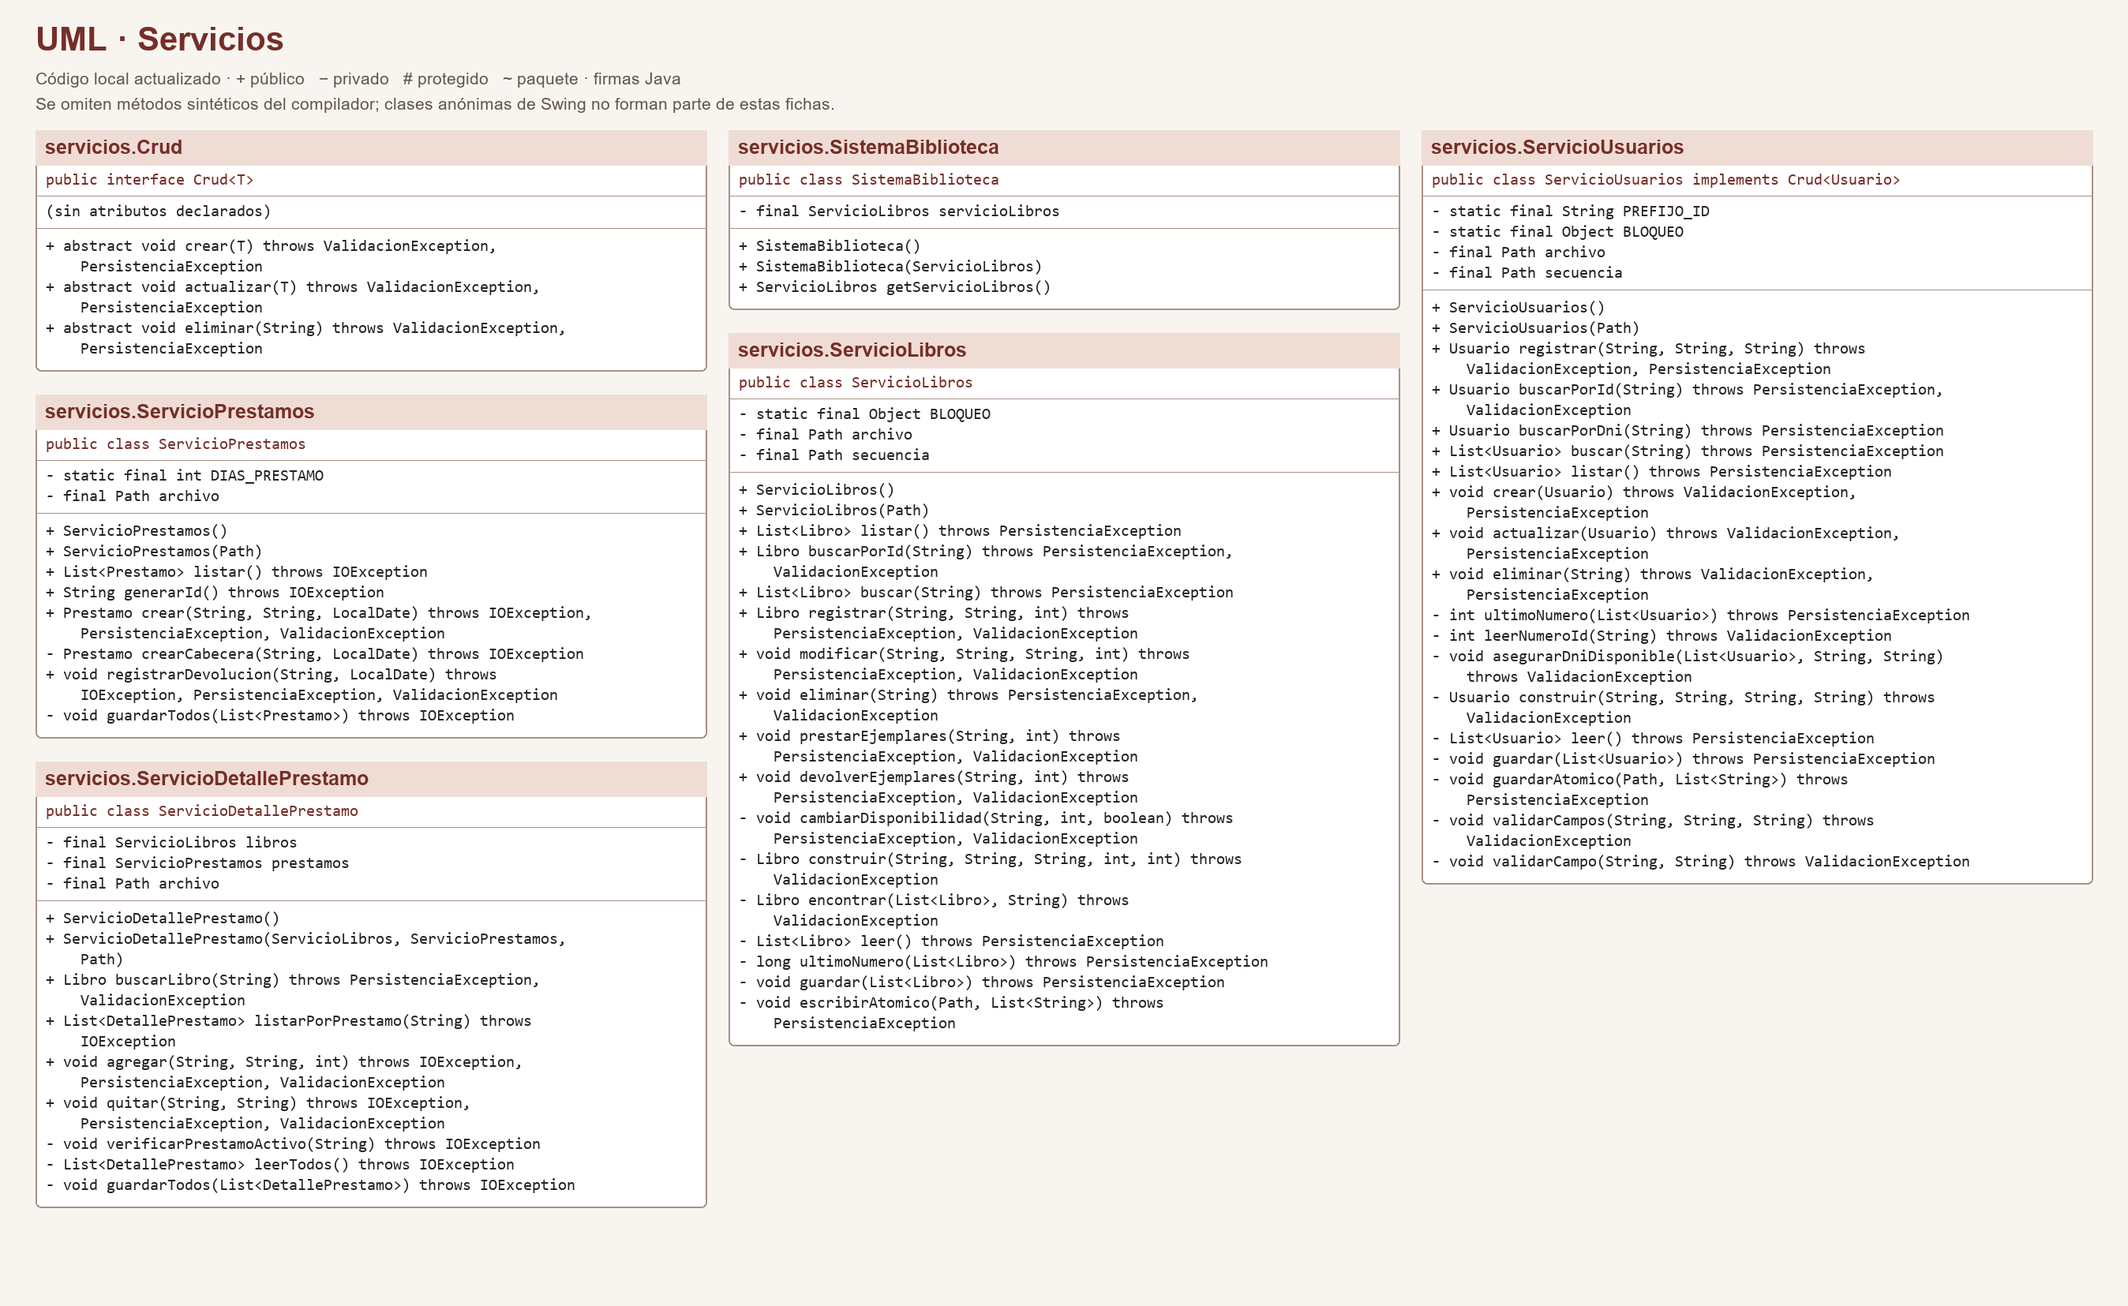
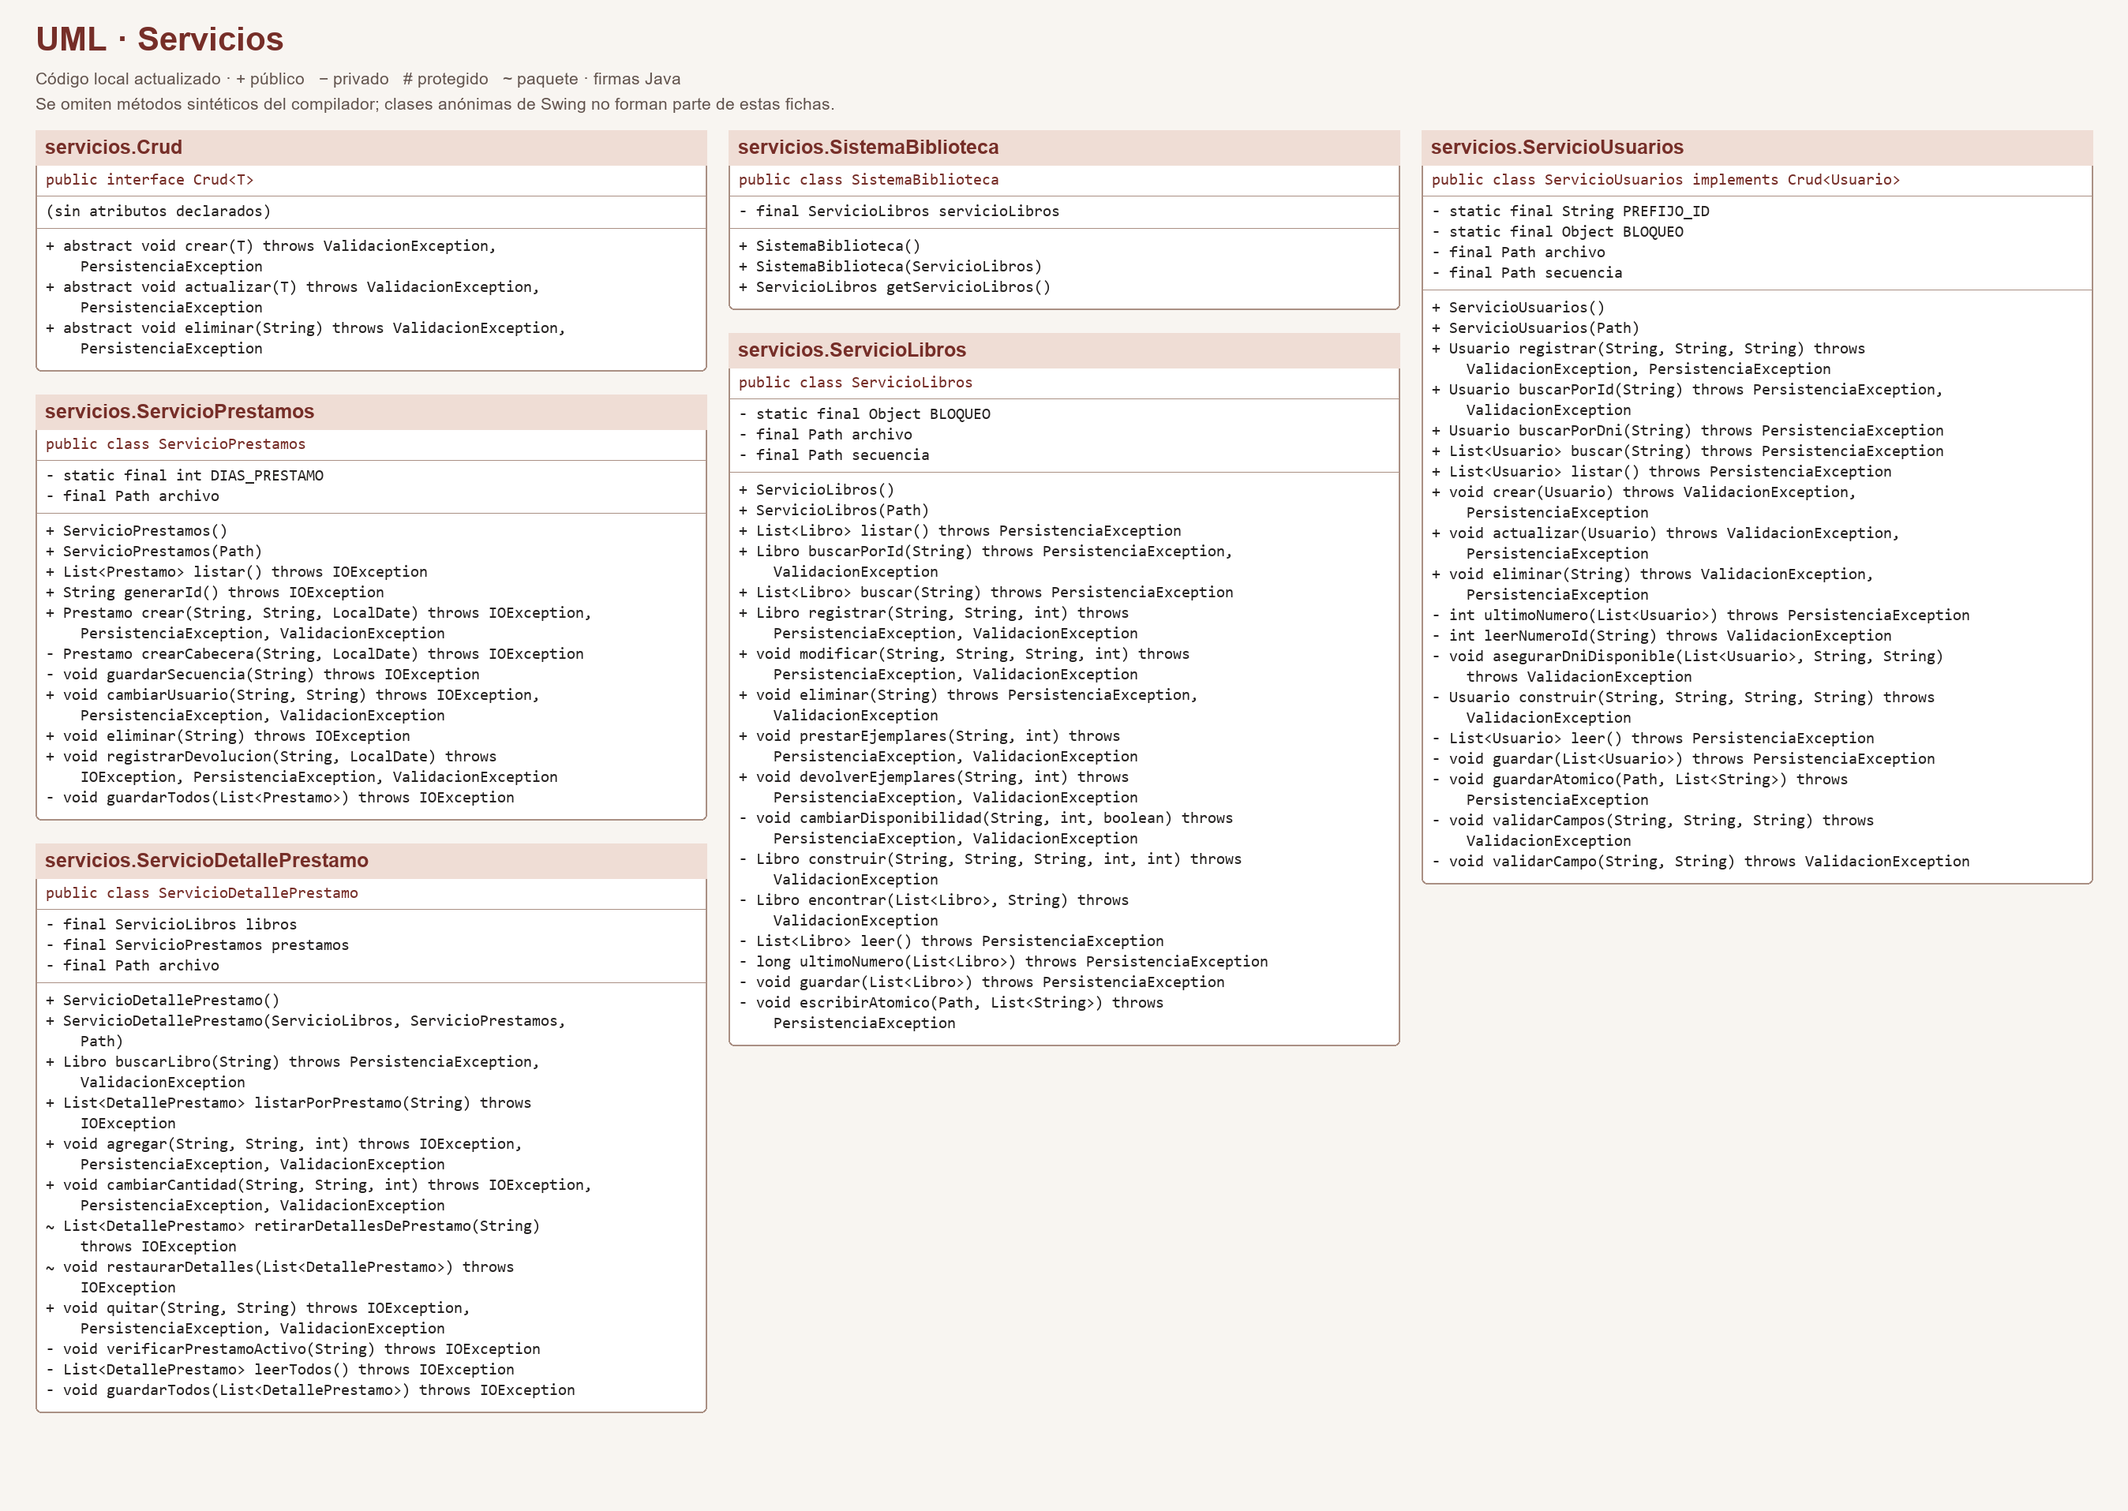
Permitir editar y eliminar préstamos y actualizar cantidades

Changed region(s): [[0.0, 0.0, 0.997, 0.9245]]

diff --git a/src/servicios/ServicioPrestamos.java b/src/servicios/ServicioPrestamos.java
@@ -55,6 +55,15 @@ public class ServicioPrestamos {
 
     public String generarId() throws IOException {
         int mayor = 0;
+        Path secuencia = archivo.toAbsolutePath().resolveSibling("prestamos-secuencia.txt");
+        if (Files.exists(secuencia)) {
+            try {
+                mayor = Integer.parseInt(Files.readString(secuencia, StandardCharsets.UTF_8).trim());
+                if (mayor < 0) throw new NumberFormatException();
+            } catch (NumberFormatException error) {
+                throw new IOException("La secuencia de préstamos no es válida.", error);
+            }
+        }
         for (Prestamo prestamo : listar()) {
             String id = prestamo.getId();
             try {
@@ -108,11 +117,69 @@ public class ServicioPrestamos {
             throw new IllegalArgumentException("El ID de usuario no puede contener | ni saltos de línea.");
         if (fechaPrestamo == null) throw new IllegalArgumentException("La fecha del préstamo es obligatoria.");
         LocalDate fechaVencimiento = fechaPrestamo.plusDays(DIAS_PRESTAMO);
-        Prestamo prestamo = new Prestamo(generarId(), idUsuario, fechaPrestamo, fechaVencimiento);
+        String id = generarId();
+        Prestamo prestamo = new Prestamo(id, idUsuario, fechaPrestamo, fechaVencimiento);
+        guardarSecuencia(id);
         List<Prestamo> prestamos = listar();
         prestamos.add(prestamo);
         guardarTodos(prestamos);
         return prestamo;
+    }
+
+    private void guardarSecuencia(String id) throws IOException {
+        Path destino = archivo.toAbsolutePath().resolveSibling("prestamos-secuencia.txt");
+        Files.createDirectories(destino.getParent());
+        Path temporal = Files.createTempFile(destino.getParent(), "secuencia-prestamos-", ".tmp");
+        try {
+            Files.writeString(temporal, id.substring(1), StandardCharsets.UTF_8);
+            Files.move(temporal, destino, StandardCopyOption.REPLACE_EXISTING);
+        } finally {
+            Files.deleteIfExists(temporal);
+        }
+    }
+
+    public void cambiarUsuario(String id, String nuevoIdUsuario)
+            throws IOException, PersistenciaException, ValidacionException {
+        List<Prestamo> prestamos = listar();
+        for (int i = 0; i < prestamos.size(); i++) {
+            Prestamo anterior = prestamos.get(i);
+            if (!anterior.getId().equals(id)) continue;
+            if (!anterior.estaActivo()) throw new IllegalStateException("Solo se puede editar un préstamo activo.");
+            Path carpeta = archivo.toAbsolutePath().getParent();
+            Usuario usuario = new ServicioUsuarios(carpeta.resolve("usuarios.txt")).buscarPorId(nuevoIdUsuario);
+            prestamos.set(i, new Prestamo(anterior.getId(), usuario.getId(),
+                    anterior.getFechaPrestamo(), anterior.getFechaVencimiento()));
+            guardarTodos(prestamos);
+            return;
+        }
+        throw new IllegalArgumentException("No se encontró el préstamo " + id + ".");
+    }
+
+    public void eliminar(String id) throws IOException {
+        List<Prestamo> prestamos = listar();
+        Prestamo encontrado = null;
+        for (Prestamo prestamo : prestamos) {
+            if (prestamo.getId().equals(id)) { encontrado = prestamo; break; }
+        }
+        if (encontrado == null) throw new IllegalArgumentException("No se encontró el préstamo " + id + ".");
+        if (encontrado.estaActivo()) throw new IllegalStateException("Primero registra la devolución del préstamo.");
+        // Reservar el siguiente número evita reutilizar IDs de datos anteriores a la secuencia.
+        guardarSecuencia(generarId());
+        Path carpeta = archivo.toAbsolutePath().getParent();
+        ServicioDetallePrestamo detalles = new ServicioDetallePrestamo(
+                new ServicioLibros(carpeta.resolve("libros.txt")), this, carpeta.resolve("detalles_prestamo.txt"));
+        List<DetallePrestamo> anteriores = detalles.retirarDetallesDePrestamo(id);
+        prestamos.remove(encontrado);
+        try {
+            guardarTodos(prestamos);
+        } catch (IOException error) {
+            try { detalles.restaurarDetalles(anteriores); }
+            catch (IOException falloReversion) {
+                error.addSuppressed(falloReversion);
+                throw new IOException("No se eliminó el préstamo ni se pudo restaurar su detalle. Revisa los archivos.", error);
+            }
+            throw error;
+        }
     }
 
     public void registrarDevolucion(String id, LocalDate fecha)

diff --git a/src/vista/PrestamoView.java b/src/vista/PrestamoView.java
@@ -138,12 +138,24 @@ public class PrestamoView extends JFrame {
         panelListado.add(new JScrollPane(tabla), BorderLayout.CENTER);
         JButton devolver = new JButton("Registrar devolución");
         devolver.addActionListener(e -> registrarDevolucion());
-        JPanel panelAcciones = new JPanel();
+        JButton editar = new JButton("Editar usuario");
+        editar.addActionListener(e -> editarUsuario());
+        JButton eliminar = new JButton("Eliminar préstamo");
+        eliminar.addActionListener(e -> eliminarPrestamo());
+        JPanel panelAcciones = new JPanel(new GridLayout(2, 1));
         panelAcciones.setOpaque(false);
-        panelAcciones.add(devolver);
+        JPanel accionesPrestamo = new JPanel();
+        accionesPrestamo.setOpaque(false);
+        accionesPrestamo.add(editar);
+        accionesPrestamo.add(eliminar);
+        accionesPrestamo.add(devolver);
         JButton volver = new JButton("Volver al menú principal");
         volver.addActionListener(e -> Navegacion.volverAlMenu(this));
-        panelAcciones.add(volver);
+        JPanel navegacion = new JPanel();
+        navegacion.setOpaque(false);
+        navegacion.add(volver);
+        panelAcciones.add(accionesPrestamo);
+        panelAcciones.add(navegacion);
         panelListado.add(panelAcciones, BorderLayout.SOUTH);
         contenido.add(panelListado, BorderLayout.CENTER);
         cargarTabla();
@@ -219,6 +231,46 @@ public class PrestamoView extends JFrame {
             return "Vencido";
         }
         return "Activo";
+    }
+
+    private void editarUsuario() {
+        int fila = tabla.getSelectedRow();
+        if (fila < 0) {
+            JOptionPane.showMessageDialog(this, "Selecciona un préstamo de la tabla.");
+            return;
+        }
+        int indice = tabla.convertRowIndexToModel(fila);
+        String id = modeloTabla.getValueAt(indice, 0).toString();
+        String usuarioActual = modeloTabla.getValueAt(indice, 1).toString();
+        String nuevo = JOptionPane.showInputDialog(this, "Nuevo ID del usuario:", usuarioActual);
+        if (nuevo == null) return;
+        try {
+            servicio.cambiarUsuario(id, nuevo.trim());
+            cargarTabla();
+            JOptionPane.showMessageDialog(this, "Usuario del préstamo actualizado.");
+        } catch (IllegalArgumentException | IllegalStateException | IOException | PersistenciaException | ValidacionException error) {
+            JOptionPane.showMessageDialog(this, error.getMessage(), "Error", JOptionPane.ERROR_MESSAGE);
+        }
+    }
+
+    private void eliminarPrestamo() {
+        int fila = tabla.getSelectedRow();
+        if (fila < 0) {
+            JOptionPane.showMessageDialog(this, "Selecciona un préstamo de la tabla.");
+            return;
+        }
+        String id = modeloTabla.getValueAt(tabla.convertRowIndexToModel(fila), 0).toString();
+        int respuesta = JOptionPane.showConfirmDialog(this,
+                "¿Eliminar el préstamo " + id + " y sus detalles? Solo se pueden eliminar préstamos devueltos.",
+                "Eliminar préstamo", JOptionPane.YES_NO_OPTION);
+        if (respuesta != JOptionPane.YES_OPTION) return;
+        try {
+            servicio.eliminar(id);
+            cargarTabla();
+            JOptionPane.showMessageDialog(this, "Préstamo y detalles eliminados.");
+        } catch (IllegalArgumentException | IllegalStateException | IOException error) {
+            JOptionPane.showMessageDialog(this, error.getMessage(), "Error", JOptionPane.ERROR_MESSAGE);
+        }
     }
 
     private void registrarDevolucion() {

diff --git a/src/servicios/ServicioDetallePrestamo.java b/src/servicios/ServicioDetallePrestamo.java
@@ -114,6 +114,50 @@ public class ServicioDetallePrestamo {
         }
     }
 
+    public void cambiarCantidad(String idPrestamo, String idLibro, int cantidad)
+            throws IOException, PersistenciaException, ValidacionException {
+        DetallePrestamo nuevo = new DetallePrestamo(idPrestamo, idLibro, cantidad);
+        verificarPrestamoActivo(idPrestamo);
+        List<DetallePrestamo> detalles = leerTodos();
+        for (int i = 0; i < detalles.size(); i++) {
+            DetallePrestamo anterior = detalles.get(i);
+            if (!anterior.getIdPrestamo().equals(nuevo.getIdPrestamo())
+                    || !anterior.getIdLibro().equals(nuevo.getIdLibro())) continue;
+            int diferencia = cantidad - anterior.getCantidad();
+            if (diferencia == 0) return;
+            if (diferencia > 0) libros.prestarEjemplares(idLibro, diferencia);
+            else libros.devolverEjemplares(idLibro, -diferencia);
+            detalles.set(i, nuevo);
+            try {
+                guardarTodos(detalles);
+            } catch (IOException error) {
+                try {
+                    if (diferencia > 0) libros.devolverEjemplares(idLibro, diferencia);
+                    else libros.prestarEjemplares(idLibro, -diferencia);
+                } catch (PersistenciaException | ValidacionException falloReversion) {
+                    error.addSuppressed(falloReversion);
+                    throw new IOException("No se guardó la cantidad ni se pudo corregir el inventario. Revisa los archivos.", error);
+                }
+                throw error;
+            }
+            return;
+        }
+        throw new IllegalArgumentException("No se encontró el detalle.");
+    }
+
+    // El llamador conserva la lista completa para restaurarla si falla el otro archivo.
+    List<DetallePrestamo> retirarDetallesDePrestamo(String id) throws IOException {
+        List<DetallePrestamo> anteriores = leerTodos();
+        List<DetallePrestamo> restantes = new ArrayList<>(anteriores);
+        restantes.removeIf(detalle -> detalle.getIdPrestamo().equals(id));
+        if (restantes.size() != anteriores.size()) guardarTodos(restantes);
+        return anteriores;
+    }
+
+    void restaurarDetalles(List<DetallePrestamo> detalles) throws IOException {
+        guardarTodos(detalles);
+    }
+
     public void quitar(String idPrestamo, String idLibro)
             throws IOException, PersistenciaException, ValidacionException {
 

diff --git a/src/vista/DetallePrestamoView.java b/src/vista/DetallePrestamoView.java
@@ -90,18 +90,21 @@ public class DetallePrestamoView extends JFrame {
 
         JButton buscar = new JButton("Buscar libro");
         JButton agregar = new JButton("Agregar libro");
+        JButton editar = new JButton("Cambiar cantidad");
         JButton quitar = new JButton("Quitar libro");
         JButton ver = new JButton("Ver detalles");
         JButton limpiar = new JButton("Limpiar");
 
         buscar.addActionListener(e -> buscarLibro());
         agregar.addActionListener(e -> agregar());
+        editar.addActionListener(e -> cambiarCantidad());
         quitar.addActionListener(e -> quitar());
         ver.addActionListener(e -> cargar());
         limpiar.addActionListener(e -> limpiar());
 
         botones.add(buscar);
         botones.add(agregar);
+        botones.add(editar);
         botones.add(quitar);
         botones.add(ver);
         botones.add(limpiar);
@@ -222,6 +225,34 @@ public class DetallePrestamoView extends JFrame {
                     "Libro retirado del préstamo."
             );
 
+        } catch (Exception error) {
+            mostrarError(error);
+        }
+    }
+
+    private void cambiarCantidad() {
+        int fila = tabla.getSelectedRow();
+        if (fila < 0) {
+            JOptionPane.showMessageDialog(this, "Selecciona un libro de la tabla.");
+            return;
+        }
+        String idPrestamo = campoPrestamo.getText().strip();
+        if (!idPrestamo.equals(prestamoMostrado)) {
+            JOptionPane.showMessageDialog(this, "Pulsa Ver detalles para el préstamo indicado.");
+            return;
+        }
+        int filaModelo = tabla.convertRowIndexToModel(fila);
+        String idLibro = modelo.getValueAt(filaModelo, 0).toString();
+        String anterior = modelo.getValueAt(filaModelo, 2).toString();
+        String texto = JOptionPane.showInputDialog(this, "Nueva cantidad para " + idLibro + ":", anterior);
+        if (texto == null) return;
+        try {
+            int cantidad = Integer.parseInt(texto.strip());
+            servicio.cambiarCantidad(idPrestamo, idLibro, cantidad);
+            cargar();
+            JOptionPane.showMessageDialog(this, "Cantidad actualizada.");
+        } catch (NumberFormatException error) {
+            mostrarError(new IllegalArgumentException("Escribe una cantidad entera."));
         } catch (Exception error) {
             mostrarError(error);
         }

diff --git a/README.md b/README.md
@@ -15,8 +15,8 @@ Proyecto grupal del curso de Programación Orientada a Objetos, desarrollado en 
 | --- | --- |
 | Usuarios | Registrar, buscar, modificar y eliminar usuarios. El DNI no se puede repetir y no se permite eliminar a un usuario con préstamos activos. |
 | Libros | Registrar y consultar libros, modificar sus datos y controlar sus ejemplares disponibles. |
-| Préstamos | Registrar un préstamo para un usuario y un libro existentes; consultar su estado y registrar su devolución. |
-| Detalle del préstamo | Consultar los libros de un préstamo y agregar o quitar libros mientras el préstamo esté activo. |
+| Préstamos | Registrar y consultar préstamos, corregir el usuario de un préstamo activo, registrar devoluciones y eliminar préstamos devueltos. |
+| Detalle del préstamo | Consultar los libros de un préstamo y agregar, quitar o cambiar cantidades mientras el préstamo esté activo. |
 
 La ventana principal ofrece acceso a los cuatro módulos. Cada módulo se abre en una ventana propia.
 
@@ -28,6 +28,8 @@ La ventana principal ofrece acceso a los cuatro módulos. Cada módulo se abre e
 4. Si se necesitan más libros, agregarlos en **Detalle del préstamo**, indicando el ID del préstamo, el ID del libro y la cantidad.
 5. El vencimiento se calcula 14 días después de la fecha del préstamo.
 6. Al devolver, el sistema registra la fecha y repone las cantidades de todos los detalles. Los detalles permanecen como historial.
+
+Para corregir un préstamo activo, selecciónalo y usa **Editar usuario**. En **Detalle del préstamo**, consulta el préstamo, selecciona un libro y usa **Cambiar cantidad**; el inventario se ajusta por la diferencia. Para eliminar un préstamo, primero registra su devolución: **Eliminar préstamo** también elimina sus detalles y pide confirmación.
 
 Los datos se guardan en archivos para poder consultarlos nuevamente después de cerrar la aplicación. Si ocurre un error de escritura durante una operación que afecta varios archivos, el sistema intenta revertir los cambios ya realizados.
 
@@ -53,7 +55,7 @@ Los cuatro archivos principales se encuentran en `datos/`:
 - `prestamos.txt`: ID, ID de usuario, fecha de préstamo, vencimiento y devolución.
 - `detalles_prestamo.txt`: ID de préstamo, ID de libro y cantidad.
 
-Cada registro ocupa una línea y los campos se separan con `|`. Los servicios de usuarios y libros también usan `usuarios-secuencia.txt` y `libros-secuencia.txt` para conservar la secuencia de IDs. Los archivos necesarios se crean al guardar si todavía no existen.
+Cada registro ocupa una línea y los campos se separan con `|`. Los servicios también usan `usuarios-secuencia.txt`, `libros-secuencia.txt` y `prestamos-secuencia.txt` para conservar las secuencias de IDs. Los archivos necesarios se crean al guardar si todavía no existen.
 
 ## Pruebas
 
